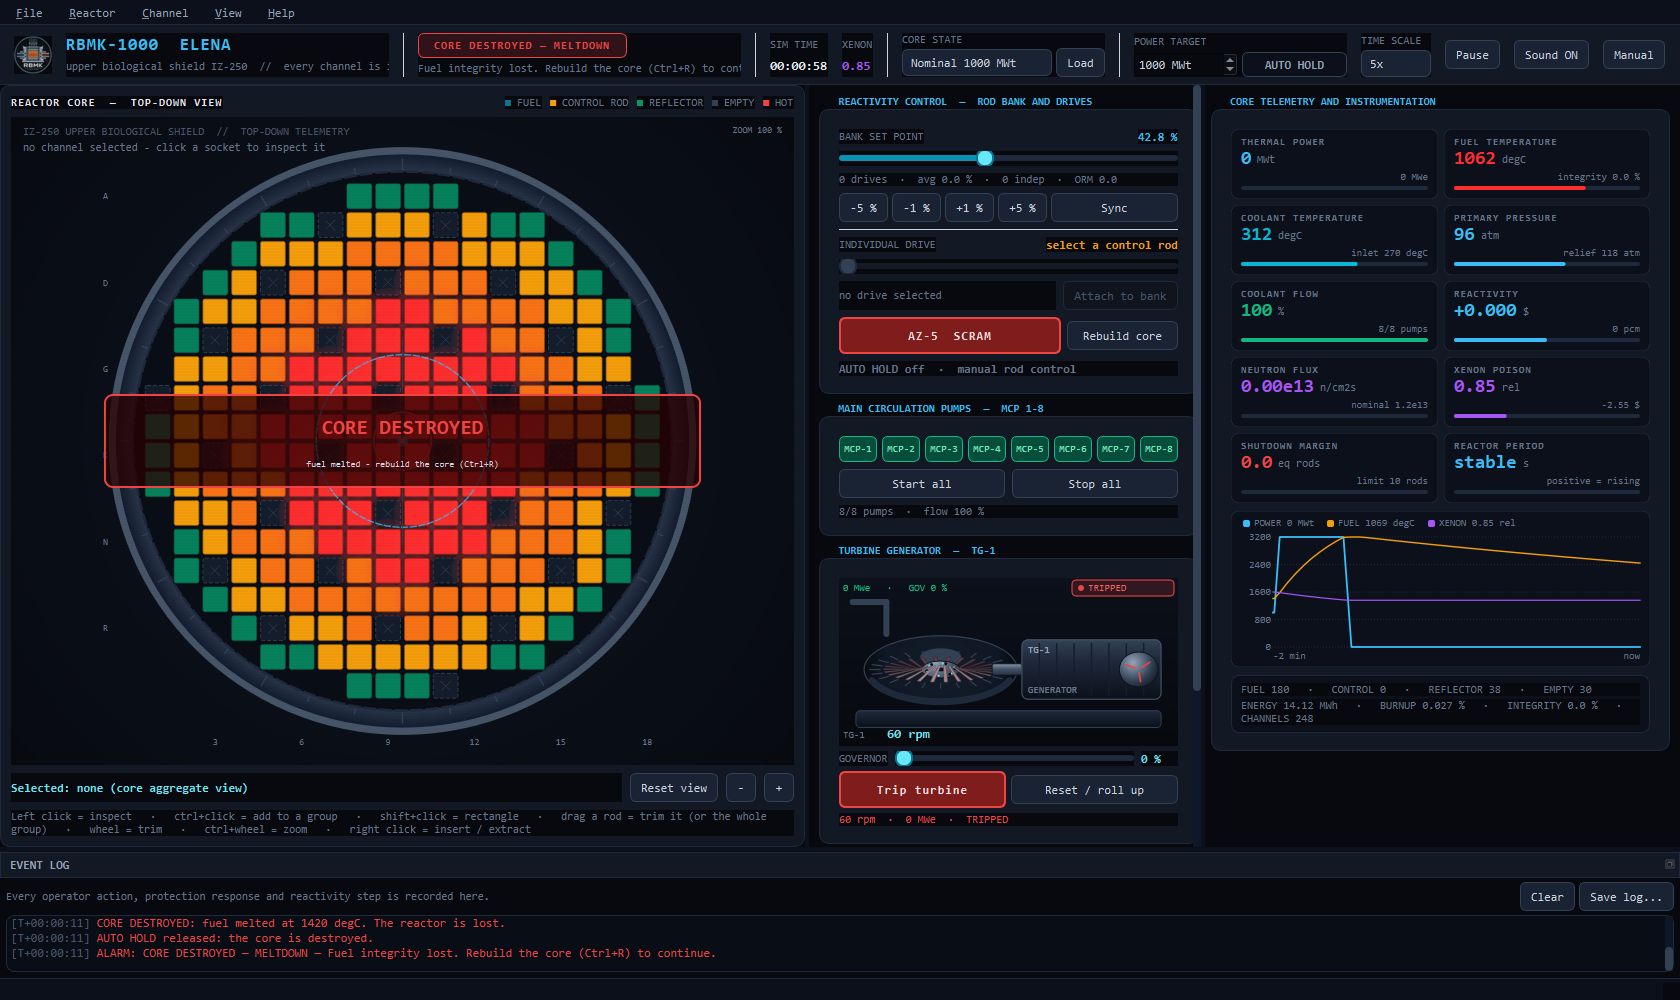
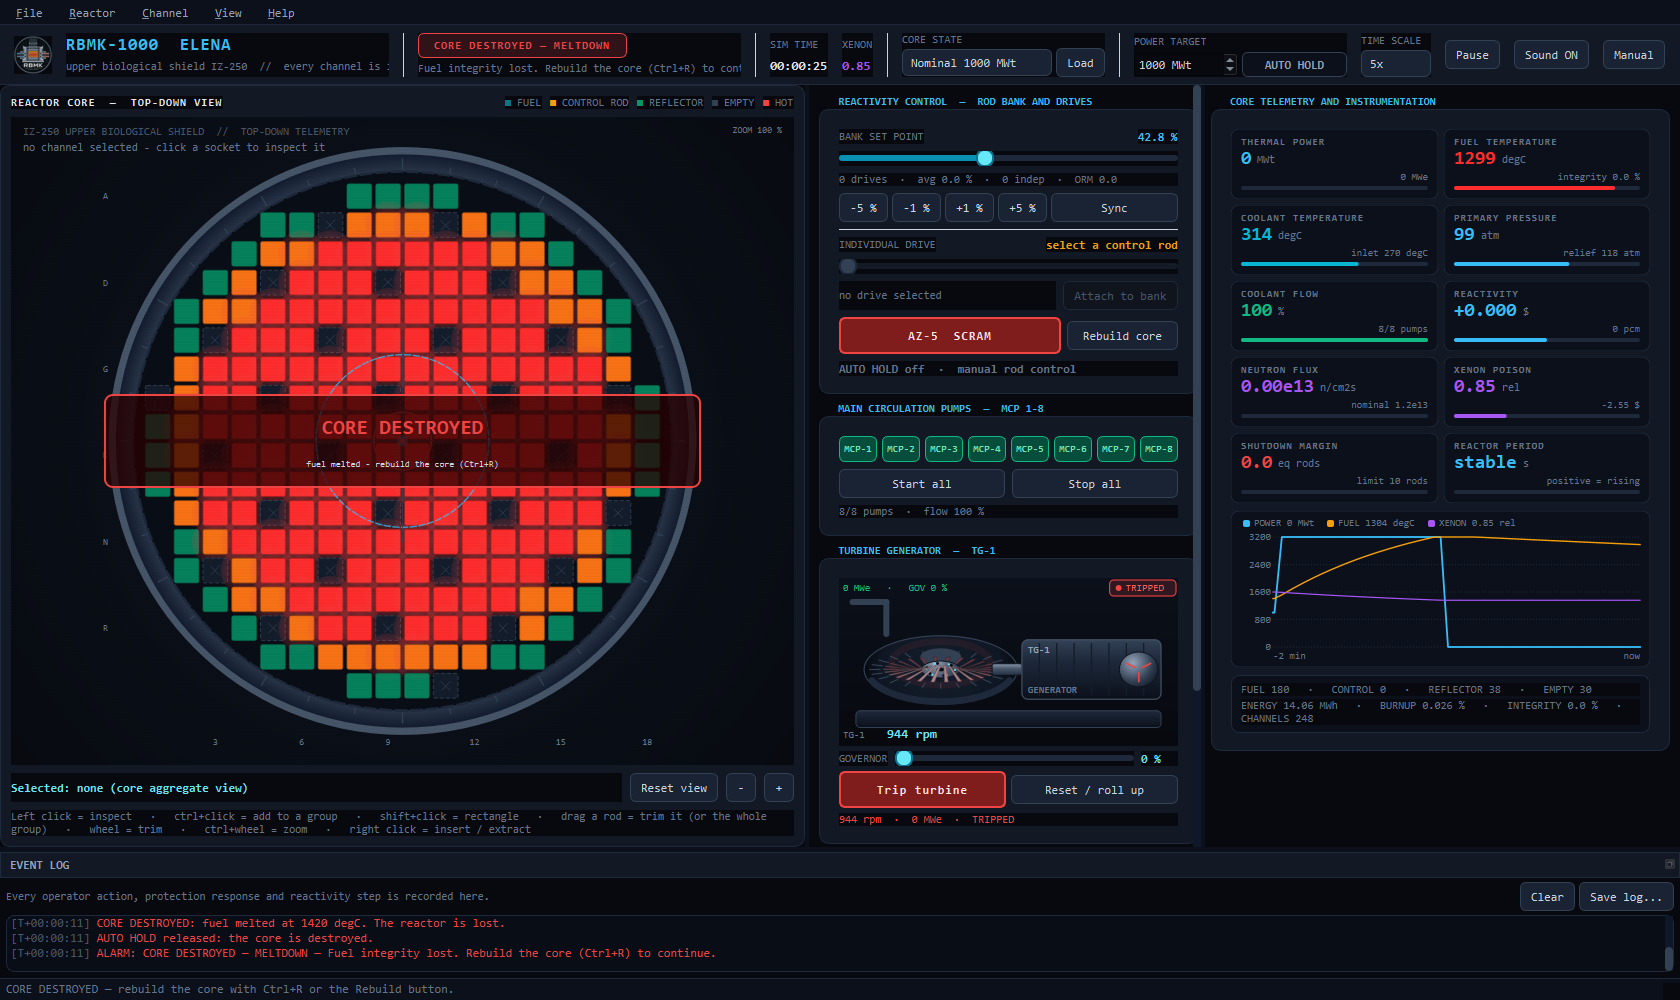
Collapse the duplication the turbine merge left behind
The merge kept both sides of every near-duplicate instead of choosing. Now:

- Telemetry carries a single pump vector (pumps); the parallel pumpCommand
  copy is gone, so the flow count and the MCP buttons read one source.
- electricMW was only ever a copy of turbineMW once export moved to the
  turbine model; the field is gone and the power card reads turbineMW.
- The TG-1 state machine existed twice with different vocabularies - the
  drawing said COASTING where the card said GOVERNOR SHUT. TurbineView now
  owns stateOf()/stateLabel() and both callers use them, so the lamp and the
  card line cannot disagree. The lamp sizes itself to its label.
- Dropped docs/screenshot.png, stale since the branded screenshots landed
  and referenced nowhere, and reworded the RBMKP-2400 note so it no longer
  claims there is no turbine model.

Screenshots regenerated; 25/25 tests pass, Release build clean.

diff --git a/src/ui/MainWindow.cpp b/src/ui/MainWindow.cpp
@@ -1717,7 +1717,7 @@ void MainWindow::refreshUi()
     m_powerGauge->setReading(QString::number(t.powerMWt, 'f', 0),
                              t.powerMWt / (3200.0 * m_core->powerScale()),
                              theme::accent(),
-                             QStringLiteral("%1 MWe").arg(t.electricMW, 0, 'f', 0));
+                             QStringLiteral("%1 MWe").arg(t.turbineMW, 0, 'f', 0));
 
     m_fuelGauge->setReading(QString::number(t.fuelTempC, 'f', 0),
                             t.fuelTempC / 1500.0,
@@ -1822,9 +1822,9 @@ void MainWindow::refreshUi()
                               .arg(runningPumps)
                               .arg(t.pumpCount)
                               .arg(t.flowPct, 0, 'f', 0));
-    for (int i = 0; i < m_pumpButtons.size() && i < t.pumpCommand.size(); ++i) {
+    for (int i = 0; i < m_pumpButtons.size() && i < t.pumps.size(); ++i) {
         const QSignalBlocker blocker(m_pumpButtons[i]);
-        const bool online = t.pumpCommand.at(i);
+        const bool online = t.pumps.at(i);
         m_pumpButtons[i]->setChecked(online);
         m_pumpButtons[i]->setToolTip(QStringLiteral("MCP-%1 %2").arg(i + 1)
                                          .arg(online ? QStringLiteral("ONLINE")
@@ -1843,27 +1843,19 @@ void MainWindow::refreshUi()
     if (m_turbineResetButton)
         m_turbineResetButton->setEnabled(t.turbineTripped);
     if (m_turbineValue) {
-        QString state;
-        QColor color;
-        if (t.turbineTripped) {
-            state = QStringLiteral("TRIPPED");
+        // Same classifier the painted lamp uses, so card and drawing always agree.
+        const TurbineView::State state = TurbineView::stateOf(t);
+        QColor color = theme::warning();
+        if (state == TurbineView::State::Tripped)
             color = theme::danger();
-        } else if (t.turbineSynced && t.turbineMW > 1.0) {
-            state = QStringLiteral("ON GRID");
+        else if (state == TurbineView::State::OnGrid)
             color = theme::success();
-        } else if (t.turbineValvePct < 1.0) {
-            state = QStringLiteral("GOVERNOR SHUT");
-            color = theme::warning();
-        } else {
-            state = QStringLiteral("ROLLING UP");
-            color = theme::warning();
-        }
         // One line only: the governor percentage already has its own readout on
         // the slider row, and a wrapped label would push the card off the column.
         m_turbineValue->setText(QStringLiteral("%1 rpm  ·  %2 MWe  ·  %3")
                                     .arg(t.turbineRpm, 0, 'f', 0)
                                     .arg(t.turbineMW, 0, 'f', 0)
-                                    .arg(state));
+                                    .arg(TurbineView::stateLabel(state)));
         m_turbineValue->setStyleSheet(QStringLiteral("color:%1;").arg(color.name()));
         m_turbineValue->setToolTip(QStringLiteral("TG-1 shaft speed %1 rpm, %2 MWe exported, "
                                                   "governor valve %3 %.")

diff --git a/src/ui/TurbineView.cpp b/src/ui/TurbineView.cpp
@@ -4,6 +4,7 @@
 #include "ui/Theme.h"
 
 #include <QDateTime>
+#include <QFontMetricsF>
 #include <QLinearGradient>
 #include <QPainter>
 #include <QPainterPath>
@@ -59,6 +60,34 @@ TurbineView::TurbineView(rbmk::ReactorCore *core, QWidget *parent)
         update();
     });
     m_timer->start();
+}
+
+/*! Classify the TG-1 train from telemetry alone.
+ *
+ *  A trip latches the governor shut, so it outranks every other reading; the
+ *  shaft only counts as synchronised once it is inside the grid window and the
+ *  generator is actually exporting.
+ */
+TurbineView::State TurbineView::stateOf(const rbmk::Telemetry &t)
+{
+    if (t.turbineTripped)
+        return State::Tripped;
+    if (t.turbineSynced && t.turbineMW > 1.0)
+        return State::OnGrid;
+    if (t.turbineValvePct < 1.0)
+        return State::GovernorShut;
+    return State::RollingUp;
+}
+
+QString TurbineView::stateLabel(State state)
+{
+    switch (state) {
+    case State::Tripped:      return QStringLiteral("TRIPPED");
+    case State::OnGrid:       return QStringLiteral("ON GRID");
+    case State::GovernorShut: return QStringLiteral("GOVERNOR SHUT");
+    case State::RollingUp:    return QStringLiteral("ROLLING UP");
+    }
+    return QString();
 }
 
 void TurbineView::paintEvent(QPaintEvent *)
@@ -158,12 +187,16 @@ void TurbineView::paintEvent(QPaintEvent *)
                    .arg(t.turbineMW, 0, 'f', 0)
                    .arg(t.turbineValvePct, 0, 'f', 0));
 
-    const bool onGrid = t.turbineSynced && !tripped;
-    const QColor lamp = tripped ? theme::danger() : (onGrid ? theme::success() : theme::warning());
-    const QString lampText = tripped ? QStringLiteral("TRIPPED")
-                                     : (onGrid ? QStringLiteral("ON GRID")
-                                               : QStringLiteral("COASTING"));
-    const QRectF lampRect(w - 106.0, 2.0, 102.0, topBand - 4.0);
+    const State state = stateOf(t);
+    const bool onGrid = state == State::OnGrid;
+    const QColor lamp = state == State::Tripped ? theme::danger()
+                                                : (onGrid ? theme::success() : theme::warning());
+    const QString lampText = stateLabel(state);
+    // Size the lamp to its label - GOVERNOR SHUT is much wider than TRIPPED - but
+    // never past half the band, so the export readout on the left keeps its room.
+    const double lampWidth =
+        qMin(w * 0.52, QFontMetricsF(small).horizontalAdvance(lampText) + 28.0);
+    const QRectF lampRect(w - lampWidth - 2.0, 2.0, lampWidth, topBand - 4.0);
     QColor lampFill = lamp;
     lampFill.setAlphaF(0.16);
     p.setBrush(lampFill);

diff --git a/tests/core_tests.cpp b/tests/core_tests.cpp
@@ -74,13 +74,15 @@ void CorePhysicsTest::scaledModelAndIndependentUnits()
     QVERIFY(large.telemetry().controlChannels > standard.telemetry().controlChannels);
     QVERIFY(std::fabs(large.telemetry().reactivityDollars) < 0.12);
     QCOMPARE(large.telemetry().powerMWt, 7500.0);
-    QCOMPARE(large.telemetry().electricMW, 2400.0);
+    // The turbine export carries the same 7.5x scale, so the approximation
+    // reports megawatts at the generator rather than core units.
+    QCOMPARE(large.telemetry().turbineMW, 2400.0);
     large.setPowerTarget(5250.0);
     QCOMPARE(large.powerTarget(), 5250.0);
     QCOMPARE(large.telemetry().powerTargetMWt, 5250.0);
     large.setPump(0, false);
-    QVERIFY(standard.telemetry().pumpCommand[0]);
-    QVERIFY(!large.telemetry().pumpCommand[0]);
+    QVERIFY(standard.telemetry().pumps[0]);
+    QVERIFY(!large.telemetry().pumps[0]);
     large.advance(10.0);
     QCOMPARE(standard.telemetry().simSeconds, 0.0);
     large.loadPreset(CorePreset::LowPower);
@@ -274,7 +276,6 @@ void CorePhysicsTest::turbineFollowsGovernorAndTrips()
     QVERIFY(core.telemetry().turbineRpm > 2900.0);
     QVERIFY(core.telemetry().turbineSynced);
     QVERIFY(core.telemetry().turbineMW > 250.0);
-    QCOMPARE(core.telemetry().electricMW, core.telemetry().turbineMW);
 
     // Closing the governor drops the export but leaves the reactor alone
     const double power = core.telemetry().powerMWt;

diff --git a/src/core/ReactorTypes.h b/src/core/ReactorTypes.h
@@ -64,7 +64,6 @@ struct Channel
 struct Telemetry
 {
     double powerMWt = 0.0;
-    double electricMW = 0.0;
     double fuelTempC = 0.0;
     double coolantTempC = 0.0;
     double pressureAtm = 0.0;
@@ -93,10 +92,10 @@ struct Telemetry
     int totalChannels = 0;
     int rodsBelowHalf = 0;
 
-    //! One flag per main circulation pump. A 2400 MW-class core needs more than
-    //! four MCPs, so these are sized at run time by ReactorCore::pumpCount().
+    //! One flag per main circulation pump, in MCP-1..MCP-n order; true = running.
+    //! The vector is sized at run time by ReactorCore::pumpCount() - eight on the
+    //! 2400 MW-class machine, where a four-pump train cannot carry the heat load.
     QVector<bool> pumps;
-    QVector<bool> pumpCommand;
     int pumpCount = 0;
 
     // ---- steam turbine / generator train -----------------------------------

diff --git a/src/core/ReactorCore.cpp b/src/core/ReactorCore.cpp
@@ -1297,15 +1297,13 @@ void ReactorCore::refreshTelemetry()
 
     t.pumpCount = m_pumpCount;
     t.pumps = m_pumpCommand;
-    t.pumpCommand = m_pumpCommand;
 
     t.turbineRpm = m_turbineRpm;
     t.turbineValvePct = m_turbineValve;
     // Export follows the turbine, not the core: a cold core or a tripped machine
-    // exports nothing. Both readings carry the model's power scale so the
+    // exports nothing. The reading carries the model's power scale so the
     // RBMKP-2400 approximation reports megawatts rather than core units.
     t.turbineMW = m_turbineMW * powerScale();
-    t.electricMW = t.turbineMW;
     t.turbineTripped = m_turbineTripped;
     t.turbineSynced = !m_turbineTripped && m_turbineRpm >= 2950.0;
     t.scrammed = m_scrammed;

diff --git a/src/ui/TurbineView.h b/src/ui/TurbineView.h
@@ -1,5 +1,7 @@
 #pragma once
 
+#include "core/ReactorTypes.h"
+
 #include <QWidget>
 
 class QTimer;
@@ -23,7 +25,14 @@ class TurbineView : public QWidget
 {
     Q_OBJECT
 public:
+    //! Operator-facing state of the machine. The painted lamp and the card text
+    //! both come from here, so the two can never disagree about the train.
+    enum class State { Tripped, OnGrid, GovernorShut, RollingUp };
+
     explicit TurbineView(rbmk::ReactorCore *core, QWidget *parent = nullptr);
+
+    static State stateOf(const rbmk::Telemetry &t);
+    static QString stateLabel(State state);
 
     QSize sizeHint() const override { return QSize(340, 168); }
     QSize minimumSizeHint() const override { return QSize(240, 124); }

diff --git a/README.md b/README.md
@@ -48,9 +48,11 @@ before running them. See [`LICENSE`](LICENSE) before redistributing.
   uses a larger illustrative 24×24 lattice with more fuel channels than the
   RBMK-1000's 18×18 lattice. The map fits both cores to the same screen space;
   the layout is not a verified physical design. It reuses simplified dynamics,
-  scaling power and thermal energy by 7.5. Its nominal 7,500 MWt and 2,400 MWe assume an illustrative 32% conversion
-  efficiency, not a validated design rating or turbine model. It does not model
-  the proposed design's separate sections or steam superheating.
+  scaling power, thermal energy and turbine export by 7.5. Its nominal 7,500 MWt
+  and 2,400 MWe come from that scaling, not from a validated design rating: the
+  steam train is the same simplified governor/turbine model used on the
+  RBMK-1000. It does not model the proposed design's separate sections or steam
+  superheating.
 
 ## Screenshots
 
